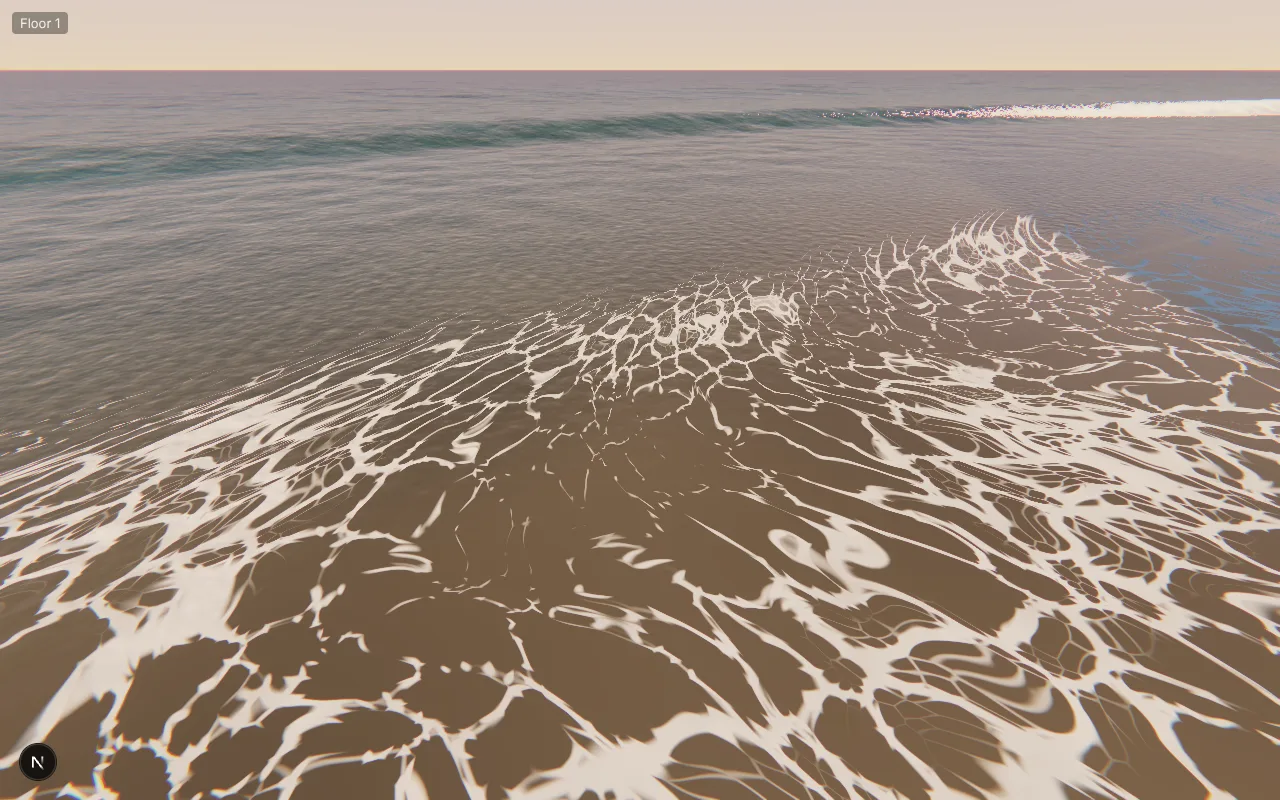
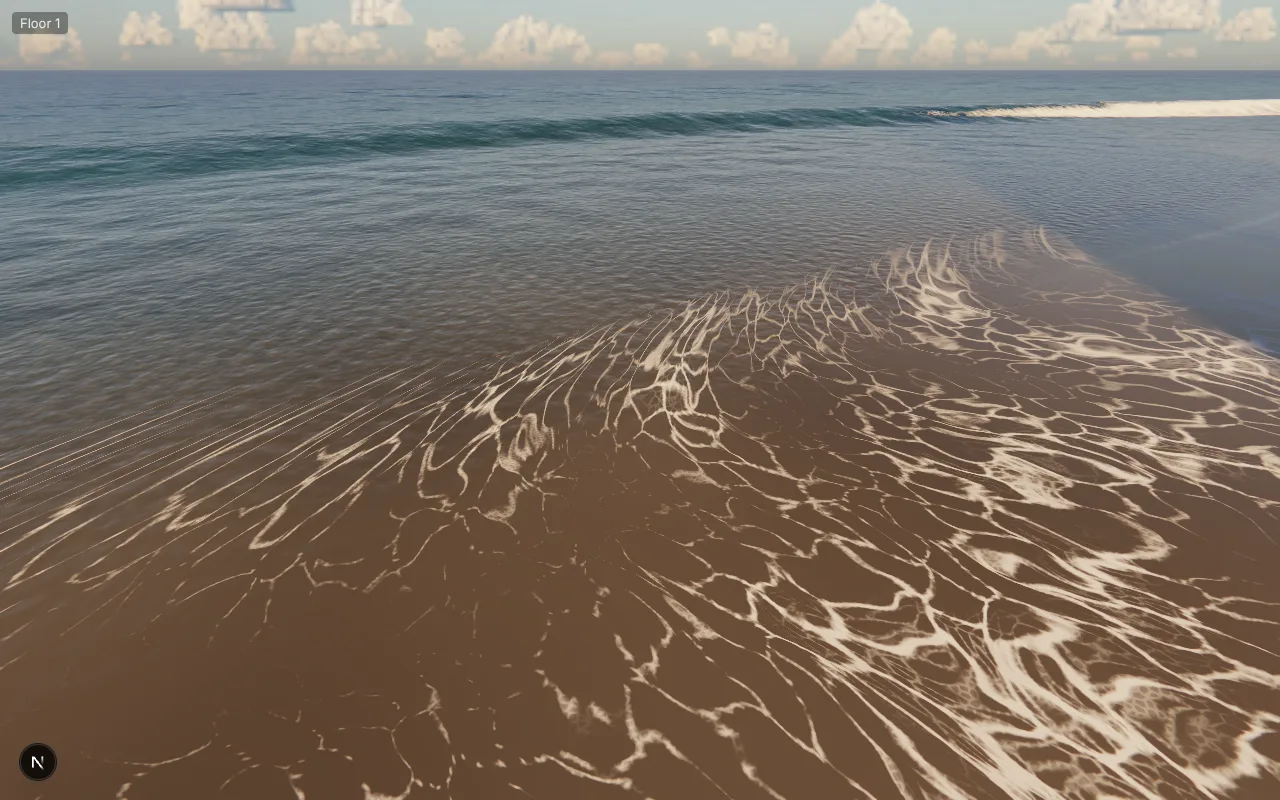
docs: the sea's frames under the real sky — the swim view, the finer lace, the shallows
Claude-Session: https://claude.ai/code/session_01DaohkDD34tV9S8mR3o9S3o

diff --git a/docs/remove-before-merging/cube-intro-j2wt34/frames/sea/README.md b/docs/remove-before-merging/cube-intro-j2wt34/frames/sea/README.md
@@ -8,15 +8,18 @@ from the sea's own stand before the shared renderer (sun at azimuth +8°).
 - `standing-on-the-shore.webp`, `wading-through-foam.webp`,
   `from-the-doorway.webp` — the reference stand's shore, lace and far view.
 - `swimming-into-the-sun-new-renderer.webp` — the same sea in the shared
-  renderer at d92ecc65, `--at 12,1.1,46 --yaw -31 --pitch -4`, lens at its
-  default 0.3: the path sparkles, the ripples read; the sky is today's pale one,
-  before sky's fix.
+  renderer at 5f46f3b7, under the real sky,
+  `--at 12,1.1,46 --yaw -31 --pitch -4`, lens at its default 0.3: the path
+  sparkles, the ripples read, the water is green-blue against a lit sky.
 - `from-forty-metres-up.webp` — c2db03a4, `--at 30,40,60 --yaw -31 --pitch -35`:
   no tile repeats in the water or the glitter from height.
-- `swash-at-the-feet.webp` — f8e1df6f,
-  `--at -19.5,1.75,19.5 --yaw 135 --pitch -30`: the lace drawn out along the
-  run-up and thinning to its edge, the shallows rippled, no line where the still
-  sea ends.
+- `swash-at-the-feet.webp` — 5f46f3b7,
+  `--at -19.5,1.75,19.5 --yaw 135 --pitch -30`: the lace fine and thin in its
+  cords, drawn out along the run-up, coming apart at its edges; the shallows
+  rippled, no line where the still sea ends.
+- `over-the-shallows.webp` — a2aad5c3, `--at -30,1.7,22 --yaw 60 --pitch -14`:
+  the eye over knee-deep water, the bed showing through, a swell standing up
+  behind.
 - `standing-dry.webp` — f8e1df6f, `--at -15.2,2.05,15.2 --yaw 135 --pitch -8`:
   the shore from dry sand; foam in the cube's shadow is lit by the sky alone and
   reads blue.
